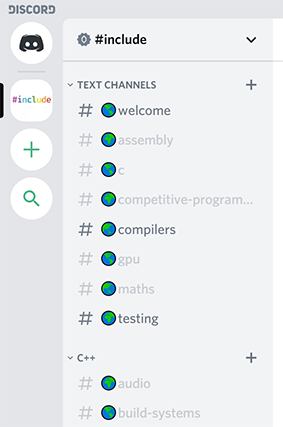
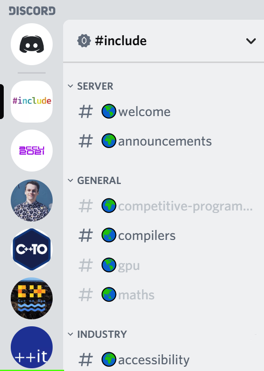
Update discord_server_channels.png image for new layout

diff --git a/discord/index.md b/discord/index.md
@@ -82,7 +82,7 @@ To send DMs, you either need to have a Discord server (such as `#include <C++>`)
 
 ### Muting channels
 
-* If a channel doesn't interest you, you can mute it, then the channel name will be faint, such as the #assembly channel in the screenshot above.
+* If a channel doesn't interest you, you can mute it, then the channel name will be faint, such as the #gpu channel in the screenshot above.
 * You can still read muted channels at any time.
 * You can also hide muted channels, in the server settings - see "Hide Muted Channels" near the bottom in this image:
     *  ![Server Settings](/images/server_settings.png)
